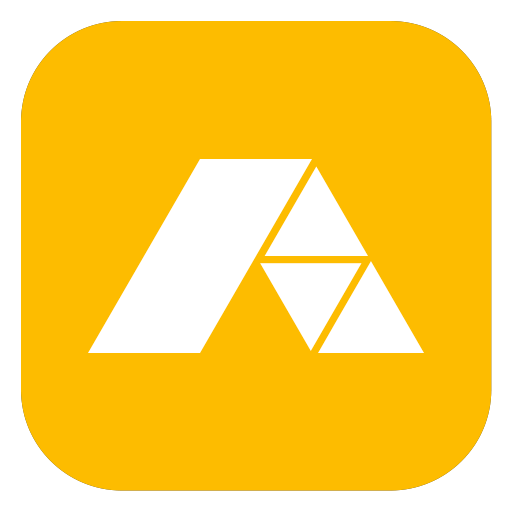
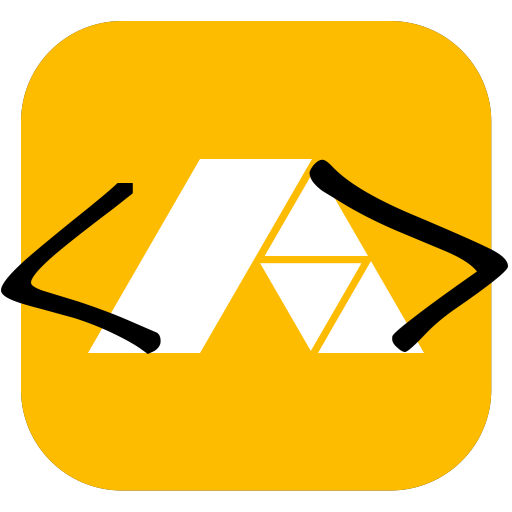
Successfull build

Changed region(s): [[0.5938, 0.3125, 1.0, 0.6875], [0.0, 0.3438, 0.3125, 0.6875]]

diff --git a/README.md b/README.md
@@ -10,10 +10,12 @@ https://www.flexibee.eu/podpora/stazeni-flexibee/stazeni-ekonomickeho-systemu-fl
 
 Kromě toho obsahuje jěště tyto dodatečné opravy a vylepšení.
 
+  * doplněna podpora systemd
   * doplněna podpora pro službu Avahi
   * doplněn nástroj pro kontrolu licence
   * opravena chyba s java-8-openjdk-amd64 accessibility
   * speciální balík **flexibee-server-backup** pro denní zálohy do souboru
+  * položka v menu a ikona pro webové rozhraní jako aplikaci
 
 Instalace
 ---------
